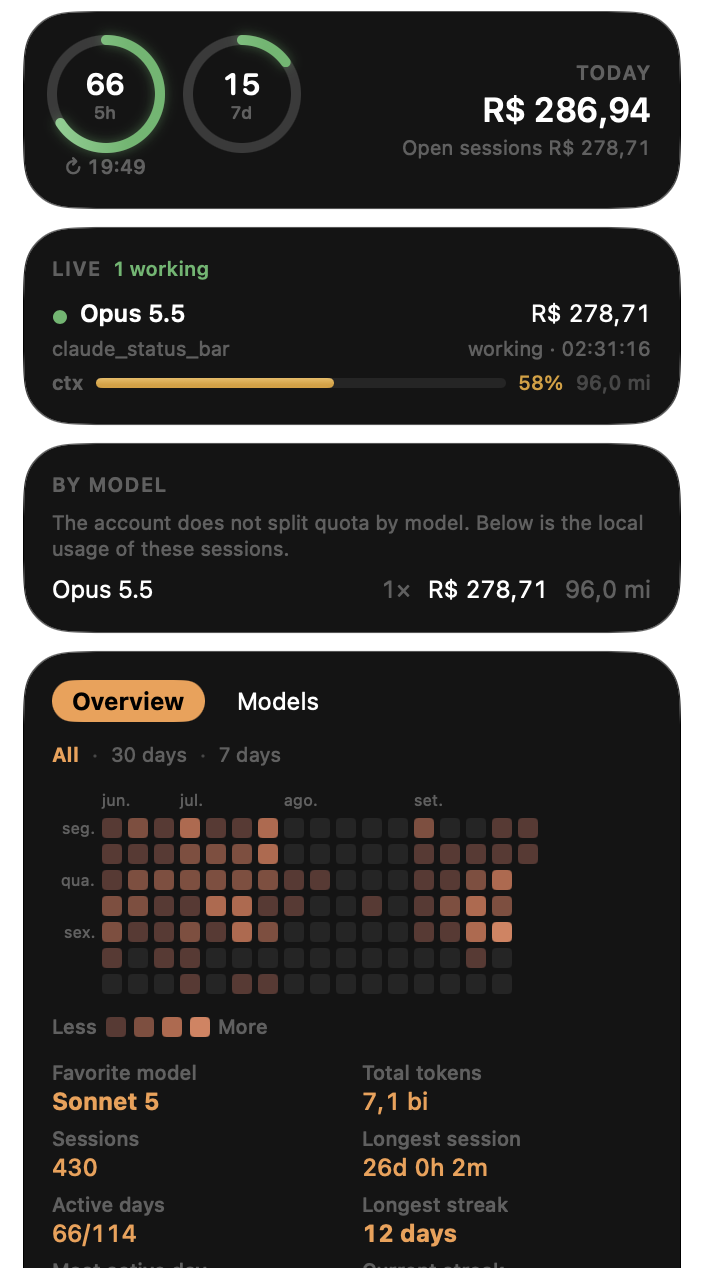
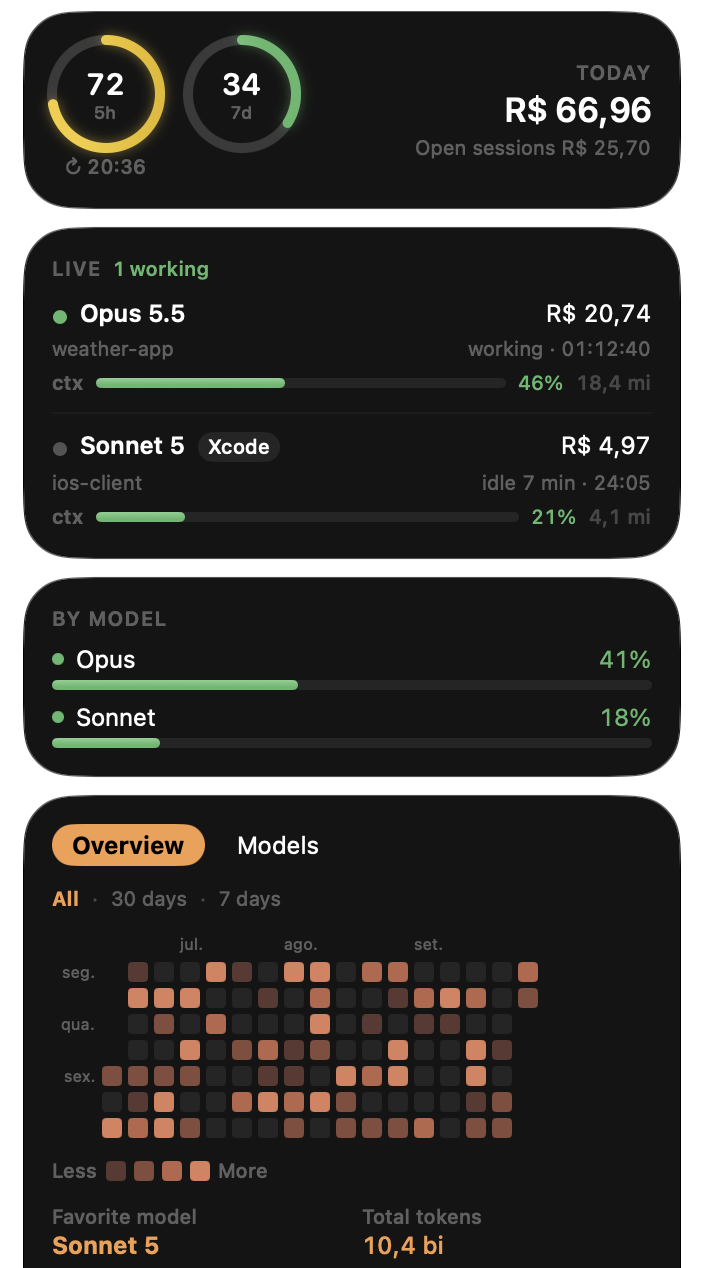
Color quota by band: green, yellow, red
- Menu bar meters take one solid color per band, the terminal
  statusline's: green under 70%, yellow under 90%, red from 90%. The
  Claude mark turns yellow or red with them.
- Amber becomes a true yellow everywhere (menu bar, rings, meters,
  context bar).
- claude.svg moves into the module resources, so the mark loads through
  Bundle.module in the app, swift run and tests alike.
- README documents the colors; screenshots are redrawn from made-up
  data.

diff --git a/macos/Sources/ClaudeStatusBar/MenuBarIcon.swift b/macos/Sources/ClaudeStatusBar/MenuBarIcon.swift
@@ -59,11 +59,11 @@ struct MenuBarLabel: View {
 }
 
 /// The Claude mark (theSVG, CC0) as a template image, so it takes the menu
-/// bar's color. The .app carries `claude.svg`; `swift run` has no bundle and
-/// shows the asterisk instead.
+/// bar's color. It ships in the module's resources; the asterisk is only a
+/// fallback if that file is missing.
 struct ClaudeMark: View {
     private static let image: NSImage? = {
-        guard let url = Bundle.main.url(forResource: "claude", withExtension: "svg"),
+        guard let url = Bundle.module.url(forResource: "claude", withExtension: "svg"),
               let image = NSImage(contentsOf: url) else { return nil }
         image.isTemplate = true
         return image
@@ -96,6 +96,8 @@ private struct MiniMeter: View {
             ZStack(alignment: .leading) {
                 Capsule().fill(.primary.opacity(0.28))
                 if let percent {
+                    // One color per band, the terminal statusline's: green under
+                    // 70%, yellow under 90%, red from 90% up to 100%.
                     Capsule()
                         .fill(Threshold.level(percent).color.gradient)
                         .frame(width: max(3.5, 26 * CGFloat(min(max(percent, 0), 100)) / 100))
@@ -112,7 +114,7 @@ extension Threshold.Level {
     var color: Color {
         switch self {
         case .green: Color(red: 0.36, green: 0.72, blue: 0.42)
-        case .amber: Color(red: 0.86, green: 0.62, blue: 0.18)
+        case .yellow: Color(red: 0.96, green: 0.80, blue: 0.20)
         case .red: Color(red: 0.86, green: 0.32, blue: 0.34)
         }
     }

diff --git a/macos/Sources/ClaudeStatusBar/ModelMatch.swift b/macos/Sources/ClaudeStatusBar/ModelMatch.swift
@@ -70,21 +70,21 @@ enum ModelMatch {
 }
 
 enum Threshold {
-    /// Same bands as the terminal statusline: green under 70, amber under 90, red at 90+.
+    /// Same bands as the terminal statusline: green under 70, yellow under 90, red at 90+.
     static func level(_ percent: Double) -> Level {
         if percent < 70 { return .green }
-        if percent < 90 { return .amber }
+        if percent < 90 { return .yellow }
         return .red
     }
 
-    /// The statusline's context pill: green under 55, amber under 75, red at 75+.
+    /// The statusline's context pill: green under 55, yellow under 75, red at 75+.
     static func contextLevel(_ percent: Double) -> Level {
         if percent < 55 { return .green }
-        if percent < 75 { return .amber }
+        if percent < 75 { return .yellow }
         return .red
     }
 
-    enum Level: Sendable { case green, amber, red }
+    enum Level: Sendable { case green, yellow, red }
 }
 
 enum Money {

diff --git a/macos/Sources/ClaudeStatusBar/PopoverView.swift b/macos/Sources/ClaudeStatusBar/PopoverView.swift
@@ -421,7 +421,7 @@ private struct SessionCard: View {
     }
 }
 
-/// Context use with the statusline's context bands (amber at 55, red at 75).
+/// Context use with the statusline's context bands (yellow at 55, red at 75).
 private struct ContextBar: View {
     var percent: Double
     var tokens: Int?

diff --git a/README.md b/README.md
@@ -4,14 +4,23 @@ A macOS menu bar app that shows your Claude usage at a glance: account quota, li
 
 <p align="center">
   <img src="docs/menubar.png" alt="Menu bar icon with 5h and 7d quota meters" height="52"><br><br>
-  <img src="docs/panel.png" alt="The panel: quota rings, live sessions, per-model usage and history" width="352">
+  <img src="docs/panel.png" alt="The panel: quota rings, live sessions, per-model usage and history" width="352"><br>
+  <sub>Screenshots use made-up data.</sub>
 </p>
 
 The interface follows the macOS language: English, Portuguese (Brazil), Spanish, French or German, with English for any other language. Costs show in reais when the system region is Brazil (converted at the cached USD→BRL rate) and in US dollars everywhere else; numbers and dates follow the system format.
 
 ## What it shows
 
-- **Menu bar**: the Claude mark with two meters for the 5-hour and 7-day quota windows. A green dot pulses while a session is working, and the mark turns amber or red as quota runs out (same bands as the terminal statusline: 70% and 90%).
+- **Menu bar**: the Claude mark with two meters for the 5-hour and 7-day quota windows. A green dot pulses while a session is working.
+- **Colors as quota runs out**, the same bands as the terminal statusline, used by the menu bar meters and the panel's rings (the Claude mark stays white while all is green, then turns yellow or red too):
+
+  | Usage | Color |
+  |---|---|
+  | below 70% | green |
+  | 70–89% | yellow |
+  | 90–100% | red |
+
 - **Quota**: 5h and 7d rings with the reset time, per-model weekly limits when the account reports them, and extra usage.
 - **Today**: what you spent today, and what the open sessions cost.
 - **Live sessions**: every running Claude Code session, in the terminal or inside Xcode, with model, project, running time, context-window use, working or idle state, tokens and cost. Click a session to open its folder; Option-click opens it in the terminal.
